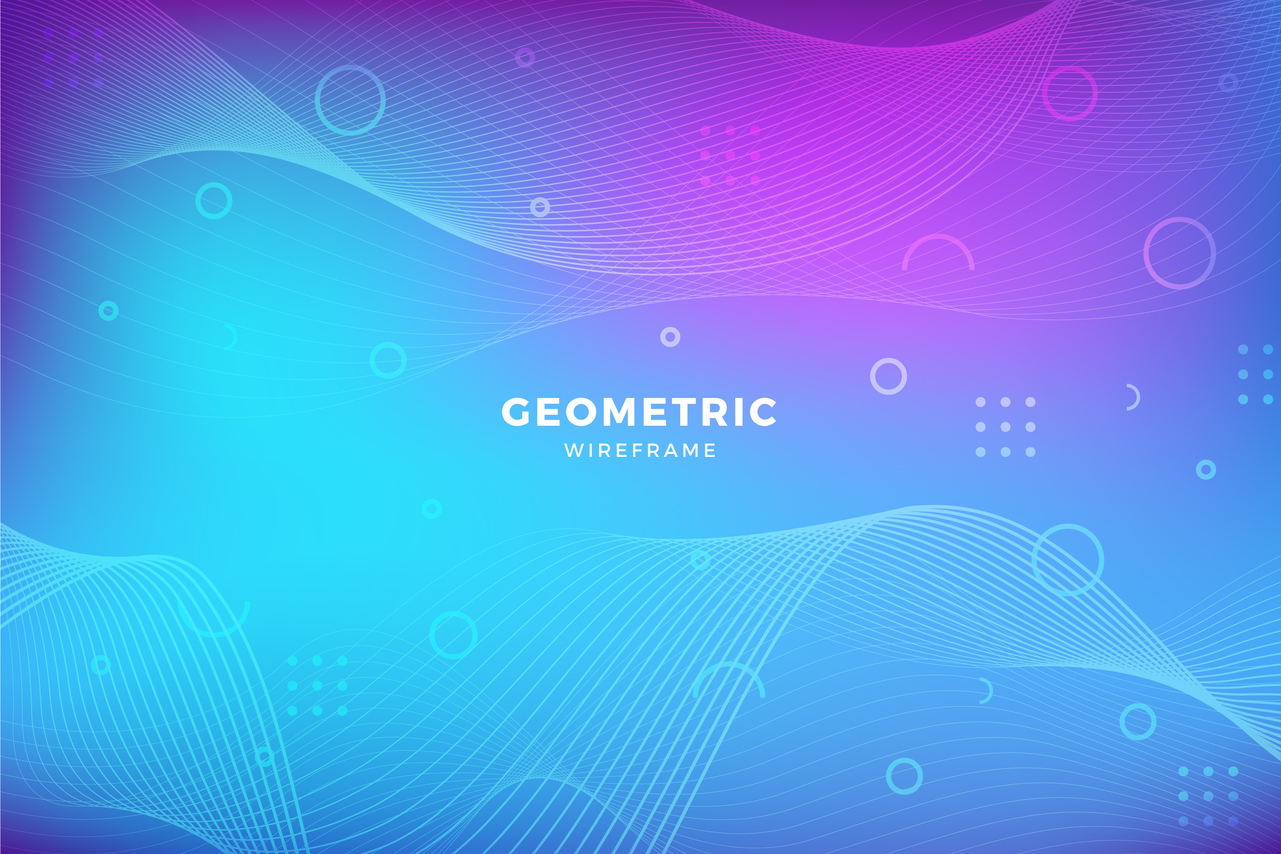
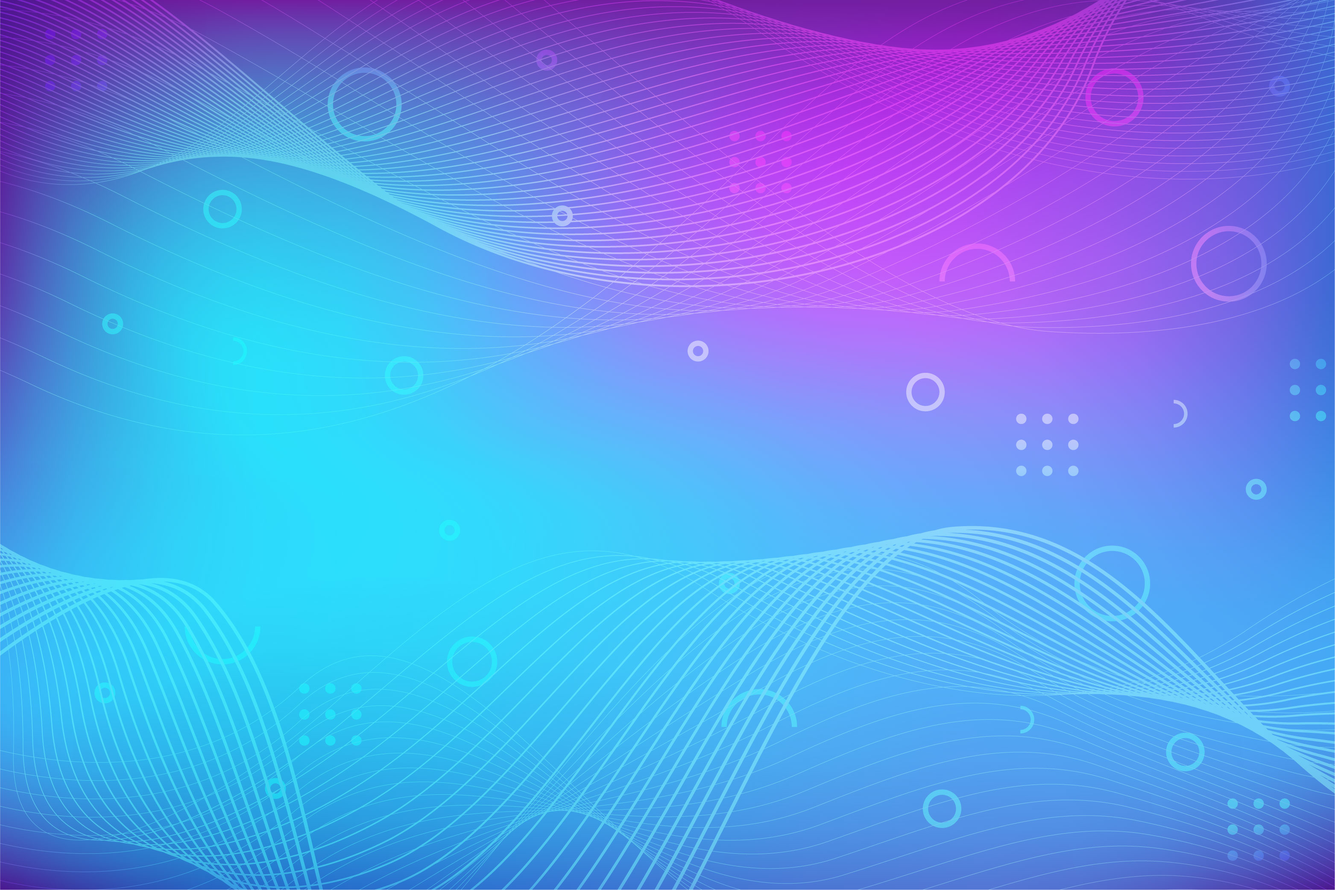
background wow

diff --git a/templates/css.html b/templates/css.html
@@ -159,12 +159,24 @@
         hyphens: auto;
         -ms-hyphens: auto;
         -moz-hyphens: auto;
-        background-image: linear-gradient(45deg, rgba(8, 3, 28, 0.769) 0%, rgba(3, 11, 22, 0.78) 100%), url(/media/bg.jpg);
+        transition: background-image 1s ease-in;
+    }
+    body:before{
+        content: '';
+        display: block;
+        position: fixed;
+        top: 0;
+        left: 0;
+        width: 100vw;
+        height: 100vh;
+        z-index: -1;
+        background-image: linear-gradient(45deg, rgba(3,28,25,0.769) 0%, rgba(8,28,59,0.78) 100%), url(/media/bg.jpg);
         background-position: 0% 0%, bottom;
         background-repeat: repeat, no-repeat;
         background-size: cover, cover;
         background-attachment: scroll;
         background-color: #FFFFFF;
+        transition: background-image 1s ease-in;
     }
     h1{
         font-family: 'Lemon', cursive;
@@ -205,6 +217,7 @@
         flex-flow: column;
         align-items: stretch;
         padding: 3px 0;
+        margin: 1.609em 0;
     }
     form a{
         color: #4abaff;
@@ -217,7 +230,8 @@
         letter-spacing: 1px;
     }
     .container{
-        background: #26252e;
+        background: #26252ec2;
+        z-index: 1;
         padding: 2em 2px;
         margin-top: 1em;
         margin-bottom: 15em;
@@ -258,6 +272,8 @@
 
     .generic_section{
         margin-bottom: 3.2em;
+        padding-right: 2em;
+        padding-left: 2em;
     }
     .generic_section .col-xs-12 a, .add_more{
         background: #15769f;
@@ -350,6 +366,7 @@
         padding-left: .5em;
         overflow: hidden;
         border:1px solid rgb(115, 216, 247);
+        border-radius: .5em;
     }
 
     .generic_card_text{
@@ -584,7 +601,7 @@
         width: 100%;
         height: 15em;
         z-index: 1;
-        margin-bottom: 5em;
+        margin-bottom: 1.75em;
     }
     #generic_profile_photo{
         position: absolute;
@@ -596,6 +613,7 @@
         border: 2px solid #9ff5f2;
         z-index: 2;
         overflow: hidden;
+        box-shadow: -1px 3px 10px 2px #000000b0;
     }
 
     #auth_wrapper{
@@ -659,6 +677,9 @@
         color:deepskyblue;
     }
     @media only screen and (max-width:420px){
+        body::before{
+            background-image: linear-gradient(45deg, rgba(8, 3, 28, 0.769) 0%, rgba(3, 11, 22, 0.78) 100%), url(/media/bg.jpg);
+        }
         .navbar-header:before{  
             position: absolute;
             top: 7%;
@@ -668,6 +689,17 @@
             font-size: 3em;
             color: #c5f9fd;
             font-family: 'Roboto Thin';
+        }
+        .navbar-header.remove_this:before{
+            content: none;
+        }
+        .container{
+            margin-left: .3em;
+            margin-right: .3em;
+        }
+        .generic_section{
+            padding-right: 5px;
+            padding-left: 5px;
         }
         .generic_section>h2:before{
             width: 20%;

diff --git a/templates/js.html b/templates/js.html
@@ -1,4 +1,5 @@
 <script>
+// activating the datepicker
 if((document.URL.split('/')[3]=='add-actor') || (document.URL.split('/')[3]=='actor' && document.URL.split('/')[6]=='edit')){
     $( ".datepicker" ).datepicker({
         changeMonth: true, 
@@ -8,11 +9,32 @@ if((document.URL.split('/')[3]=='add-actor') || (document.URL.split('/')[3]=='ac
         defaultDate: new Date(1989, 0, 01)
     });
 }
+
+// activating the chosen
+if((document.URL.split('/')[3]=='add-movie') || (document.URL.split('/')[3]=='movie' && document.URL.split('/')[6]=='edit') || (document.URL.split('/')[3]=='add-tvshow') || (document.URL.split('/')[3]=='tvshow' && document.URL.split('/')[6]=='edit')){
+    $('#id_genre').chosen({rtl: true});
+    $('#id_genre_chosen').css('width','100%');
+    $('#id_starring').chosen({rtl: true});
+    $('#id_starring_chosen').css('width','100%');
+}
+
+// onclick filters in actors list page
+if(document.URL.split('/')[3]=='actors'){
+    $('#latest').click(function(){
+        window.location.href='/actors/latest';
+    });
+    $('#oldest').click(function(){
+        window.location.href='/actors/oldest';
+    });
+}
+
+// selecting inputs with required & updating the DOM
 var x =$('input,textarea,select').filter('[required]:visible');
 for(i=0;i<x.length;i++){
     x[i].after("This field is required");
 }
 
+// adding a border in the update page
 if(document.URL.split('/')[3]=='actor' && document.URL.split('/')[6]=='edit'){
     $('#id_image').parent().find('a').after('<img style="height:300px;object-fit:cover;    object-position: 0 -60px;" src="'+$('#id_image').parent().find('a').attr('href')+'">'); //from anchor href to a img src
     $('#id_image').parent().css({
@@ -21,18 +43,10 @@ if(document.URL.split('/')[3]=='actor' && document.URL.split('/')[6]=='edit'){
     });
     $('#image-clear_id+label').after('&nbsp;Or&nbsp;<br>');
 }
-if((document.URL.split('/')[3]=='add-movie') || (document.URL.split('/')[3]=='movie' && document.URL.split('/')[6]=='edit') || (document.URL.split('/')[3]=='add-tvshow') || (document.URL.split('/')[3]=='tvshow' && document.URL.split('/')[6]=='edit')){
-    $('#id_genre').chosen({rtl: true});
-    $('#id_genre_chosen').css('width','100%');
-    $('#id_starring').chosen({rtl: true});
-    $('#id_starring_chosen').css('width','100%');
-}
-if(document.URL.split('/')[3]=='actors'){
-    $('#latest').click(function(){
-        window.location.href='/actors/latest';
-    });
-    $('#oldest').click(function(){
-        window.location.href='/actors/oldest';
-    });
+
+// removing the 'likelist' from signin and signup navbars
+if(document.URL.split('/')[3]=='login' || document.URL.split('/')[3]=='join'){
+    $('.navbar-header').addClass('remove_this');
+    $('.container').css('background', 'transparent');
 }
 </script>

diff --git a/templates/registration/register.html b/templates/registration/register.html
@@ -1,4 +1,5 @@
 {% extends "base.html" %}
+{% block title %}Create an Account | {{block.super}} {% endblock %}
 {% block content %}
 <div id="auth_wrapper">
     <div id="auth_header" class='col-xs-12 col-md-6'>
@@ -16,6 +17,8 @@
     {{form.as_p}}
     <button type="Submit" class="btn btn-success">Sign Up</button>
   </form>
+  <br>
+  <p>By registering you are agreeing to our <a target='_blank' href="/terms">Terms & Conditions</a> and <a target='_blank' href="/privacy">Privacy Policy</a></p>
 </div>
 {% endblock %}
 {%block loadjs%}

diff --git a/templates/footer.html b/templates/footer.html
@@ -1,4 +1,5 @@
 <footer>
     <p><i class="fa fa-copyright" aria-hidden="true"></i> 2019 All Rights Reserved</p>
     <p><i class="fa fa-code" aria-hidden="true"></i> with <i class="fa fa-heart" aria-hidden="true"></i> by <a href="http://infogram.cf" target="_blank" rel="noopener noreferrer">Subham Sarangi</a></p>
+    <h6><a target='_blank' href="/terms">Terms & Conditions</a>&nbsp;&nbsp;&nbsp;<a target='_blank' href="/privacy">Privacy Policy</a></h6>
 </footer>

diff --git a/templates/registration/login.html b/templates/registration/login.html
@@ -1,4 +1,5 @@
 {% extends "base.html" %}
+{% block title %}Sign in | {{block.super}} {% endblock %}
 {% block content %}
 <div id="auth_wrapper">
   <div id="auth_header" class='col-xs-12 col-md-6'>
@@ -16,5 +17,7 @@
     {{form.as_p}}
     <button type="Submit" class="btn btn-success">Login</button>
   </form>
+  <br>
+  <p>New user? <a href="/join">Create</a> an account for free.</p> 
 </div>
 {% endblock %}

diff --git a/templates/registration/logout.html b/templates/registration/logout.html
@@ -1,4 +1,5 @@
 {% extends "base.html" %}
+{% block title %}Goodbye | {{block.super}} {% endblock %}
 {% block content %}
 <div id="auth_wrapper">
     <h1>You have logged yourself out.</h1>
